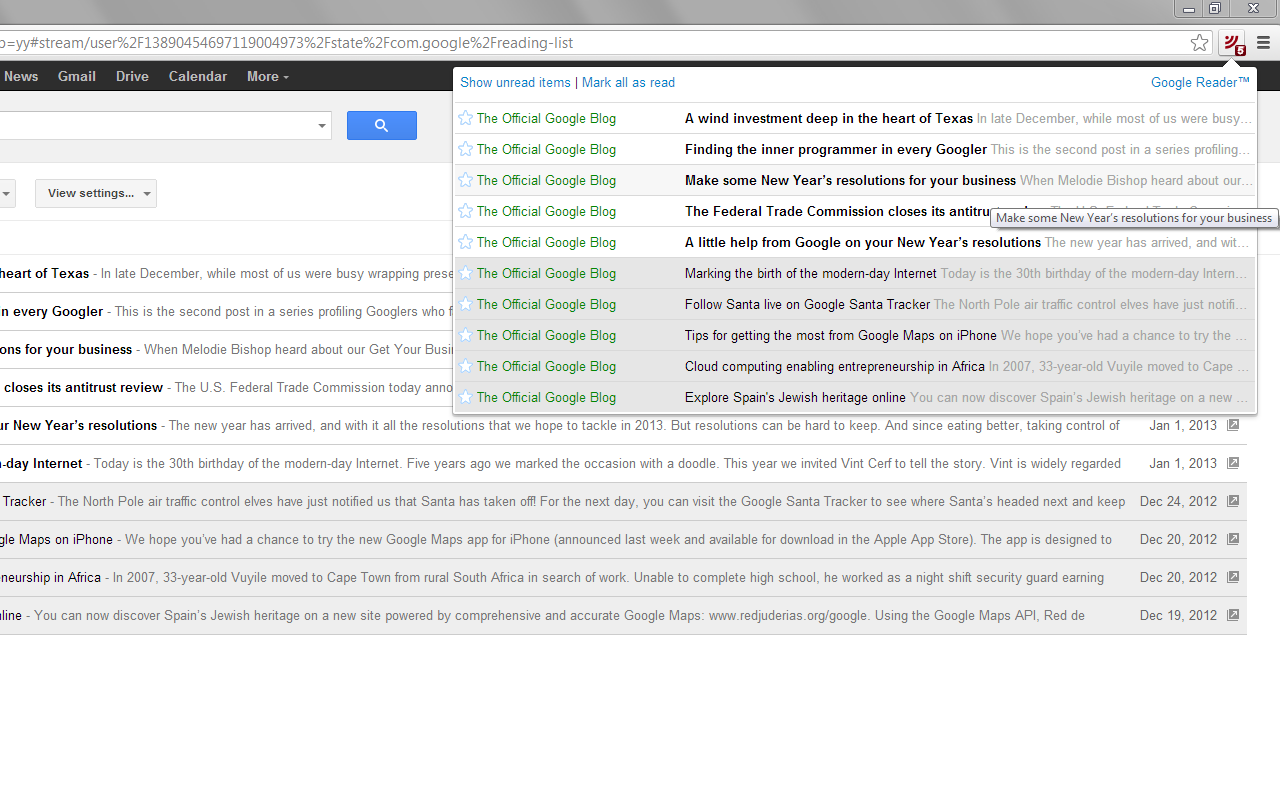
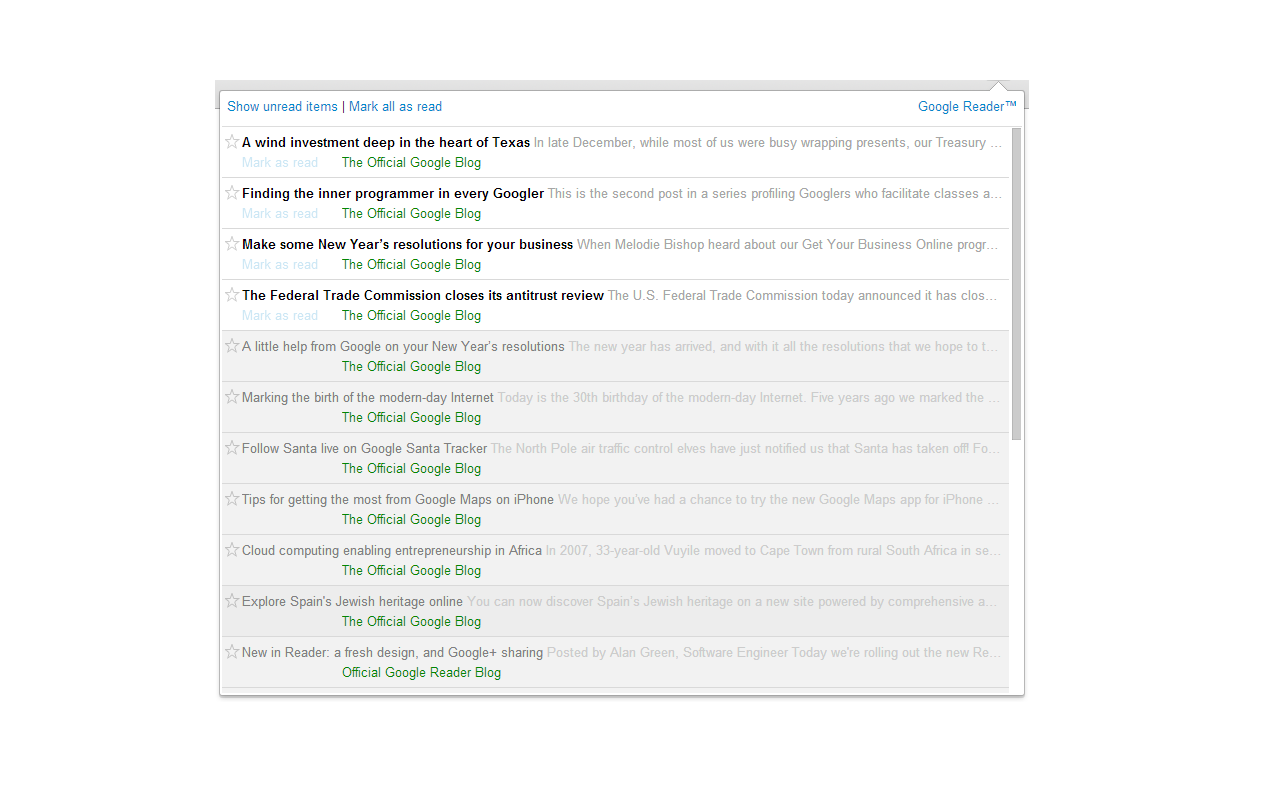
version 2.1.0 with redesigned list

Changed region(s): [[0.0, 0.0, 1.0, 0.875], [0.0312, 0.2188, 0.125, 0.25]]

diff --git a/app/css/popup.css b/app/css/popup.css
@@ -1,2 +1,2 @@
 /* This beautiful CSS-File has been crafted with LESS (lesscss.org) and compiled by bracketLESS (codeblog.co.uk/bracketless) */
-.grn-star { background: url('/img/star-empty.png'); width: 15px; height: 15px; cursor: pointer; overflow: hidden; padding: 0px; display: inline-block; vertical-align: -2px;}.grn-star:hover { background: url('/img/star-hover.png');}.grn-star.grn-starred { background: url('/img/star-full.png');}::-webkit-scrollbar { height: 13px; overflow: visible; width: 13px;}::-webkit-scrollbar-thumb { background-color: rgba(0, 0, 0, 0.2); background-clip: padding-box; border: solid transparent; border-width: 1px 1px 1px 3px; min-height: 28px; padding: 100px 0 0; box-shadow: inset 1px 1px 0 rgba(0, 0, 0, 0.1), inset 0 -1px 0 rgba(0, 0, 0, 0.07);}::-webkit-scrollbar-button { height: 0; width: 0;}::-webkit-scrollbar-track { background-clip: padding-box; border: solid transparent; border-width: 0 0 0 4px; background-color: transparent;}::-webkit-scrollbar-corner { background: transparent;}body { padding: 0px; margin: 0px; font-family: Arial, sans-serif; font-size: 13px;}#list-view { display: -webkit-box; -webkit-box-orient: vertical; width: 800px; max-height: 600px;}#list-view header { border-bottom: 1px solid #DDD; padding: 3px 5px 10px 5px;}#list-view .grn-container { -webkit-box-flex: 1; overflow: auto;}#list-view .grn-container .grn-loading { padding: 15px 0px; text-align: center;}#list-view .grn-container .grn-empty { padding: 25px 0px; text-align: center;}#list-view .grn-container .grn-items-list { margin: 0px;}#list-view .grn-container .grn-items-list .grn-list-item { position: relative; list-style: none; margin: 0px; padding: 0px; height: 30px; line-height: 30px; background-color: #ffffff; border-bottom: 1px solid #d9d9d9; overflow: hidden;}#list-view .grn-container .grn-items-list .grn-list-item:last-child { border-bottom: none;}#list-view .grn-container .grn-items-list .grn-list-item .grn-star { margin: 0px 3px;}#list-view .grn-container .grn-items-list .grn-list-item:hover { background-color: #f7f7f7;}#list-view .grn-container .grn-items-list .grn-list-item .grn-title { font-weight: bold;}#list-view .grn-container .grn-items-list .grn-list-item.read { background-color: #e6e6e6;}#list-view .grn-container .grn-items-list .grn-list-item.read:hover { background-color: #e3e3e3;}#list-view .grn-container .grn-items-list .grn-list-item.read .grn-title { font-weight: normal;}#list-view .grn-container .grn-items-list .grn-list-item .grn-item-description { cursor: pointer;}#list-view .grn-container .grn-items-list .grn-list-item .grn-item-description .grn-column-origin { position: absolute; top: 0px; bottom: 0px; left: 22px; width: 208px; white-space: nowrap; overflow: hidden; text-overflow: ellipsis; color: #008800;}#list-view .grn-container .grn-items-list .grn-list-item .grn-item-description .grn-column-title { position: absolute; top: 0px; bottom: 0px; left: 230px; right: 0px; white-space: nowrap; overflow: hidden; text-overflow: ellipsis; color: #a6a6a6;}#list-view .grn-container .grn-items-list .grn-list-item .grn-item-description .grn-column-title .grn-title { color: #000000;}#item-view { display: -webkit-box; -webkit-box-orient: vertical; width: 800px; max-height: 600px;}#item-view header { display: -webkit-box; -webkit-box-orient: horizontal; border-bottom: 1px solid #DDD; position: relative;}#item-view header .grn-star { margin: 7px 5px 0px 0px;}#item-view header .grn-navigation { background-color: white; float: right; position: fixed; right: 0px; top: 0px; margin: 5px; opacity: 0; -webkit-transition: opacity 100ms; -webkit-transition-delay: 300ms;}#item-view header:hover .grn-navigation { display: block; opacity: 1; -webkit-transition-delay: 0ms;}#item-view header .grn-info { -webkit-box-flex: 1; max-height: 150px; overflow: auto;}#item-view header .grn-info > p { margin: 0px; padding: 0px;}#item-view header .grn-info .grn-title { font-size: 30px; font-weight: bold; line-height: normal; color: #000000;}#item-view header .grn-info .grn-origin { color: #008800;}#item-view .grn-container { -webkit-box-flex: 1; text-align: center; padding: 10px; margin-bottom: 5px; overflow: auto;}#item-view .grn-container .grn-content { display: inline-block; text-align: left;}
+.grn-star { background: url('/img/star-empty.png'); width: 15px; height: 15px; cursor: pointer; overflow: hidden; padding: 0px; display: inline-block; vertical-align: -2px;}.grn-star:hover { background: url('/img/star-hover.png');}.grn-star.grn-starred { background: url('/img/star-full.png');}::-webkit-scrollbar { height: 13px; overflow: visible; width: 13px;}::-webkit-scrollbar-thumb { background-color: rgba(0, 0, 0, 0.2); background-clip: padding-box; border: solid transparent; border-width: 1px 1px 1px 3px; min-height: 28px; padding: 100px 0 0; box-shadow: inset 1px 1px 0 rgba(0, 0, 0, 0.1), inset 0 -1px 0 rgba(0, 0, 0, 0.07);}::-webkit-scrollbar-button { height: 0; width: 0;}::-webkit-scrollbar-track { background-clip: padding-box; border: solid transparent; border-width: 0 0 0 4px; background-color: transparent;}::-webkit-scrollbar-corner { background: transparent;}body { padding: 0px; margin: 0px; font-family: Arial, sans-serif; font-size: 13px;}#list-view { display: -webkit-box; -webkit-box-orient: vertical; width: 800px; max-height: 600px;}#list-view header { border-bottom: 1px solid #DDD; padding: 3px 5px 10px 5px;}#list-view .grn-container { -webkit-box-flex: 1; overflow: auto;}#list-view .grn-container .grn-loading { padding: 15px 0px; text-align: center;}#list-view .grn-container .grn-empty { padding: 25px 0px; text-align: center;}#list-view .grn-container .grn-items-list { margin: 0px;}#list-view .grn-container .grn-items-list .grn-list-item { position: relative; list-style: none; margin: 0px; padding: 0px; height: 50px; overflow: hidden; background-color: #ffffff; border-bottom: 1px solid #d9d9d9; }#list-view .grn-container .grn-items-list .grn-list-item:last-child { border-bottom: none;}#list-view .grn-container .grn-items-list .grn-list-item .grn-star { position: relative; top: 5px; left: 3px;}#list-view .grn-container .grn-items-list .grn-list-item .grn-click-target { position: absolute; top: 0px; bottom: 0px; left: 20px; right: 0px; cursor: pointer; padding-top: 5px;}#list-view .grn-container .grn-items-list .grn-list-item .grn-click-target .grn-item-content { white-space: nowrap; overflow: hidden; text-overflow: ellipsis; display: block; margin: 0px 5px 0px 0px; color: #a6a6a6;}#list-view .grn-container .grn-items-list .grn-list-item .grn-click-target .grn-item-content .grn-item-title { color: #000000;}#list-view .grn-container .grn-items-list .grn-list-item .grn-click-target .grn-item-origin { white-space: nowrap; overflow: hidden; text-overflow: ellipsis; margin: 0px 5px 0px 0px; position: absolute; left: 100px; display: block; max-width: 400px;}#list-view .grn-container .grn-items-list .grn-list-item .grn-click-target .grn-item-origin a { color: #008800;}#list-view .grn-container .grn-items-list .grn-list-item .grn-click-target .grn-item-commands { list-style: none; margin: 0px; max-width: 300px; opacity: 0.2; -webkit-transition: opacity 150ms ease-in;}#list-view .grn-container .grn-items-list .grn-list-item .grn-click-target .grn-item-commands li { display: inline; margin-right: 5px;}#list-view .grn-container .grn-items-list .grn-list-item .grn-click-target:hover .grn-item-commands { opacity: 1;}#list-view .grn-container .grn-items-list .grn-list-item:not(.read) .grn-item-content .grn-item-title { font-weight: bold;}#list-view .grn-container .grn-items-list .grn-list-item:not(.read):hover { background-color: #fafafa;}#list-view .grn-container .grn-items-list .grn-list-item.read { background-color: #f2f2f2; }#list-view .grn-container .grn-items-list .grn-list-item.read .grn-item-content { color: #cccccc;}#list-view .grn-container .grn-items-list .grn-list-item.read .grn-item-content .grn-item-title { font-weight: normal; color: #808080;}#list-view .grn-container .grn-items-list .grn-list-item.read:hover { background-color: #ededed;}#list-view .grn-container .grn-items-list .grn-list-item.read .grn-item-commands { display: none;}#item-view { display: -webkit-box; -webkit-box-orient: vertical; width: 800px; max-height: 600px;}#item-view header { display: -webkit-box; -webkit-box-orient: horizontal; border-bottom: 1px solid #DDD; position: relative;}#item-view header .grn-star { margin: 7px 5px 0px 0px;}#item-view header .grn-navigation { background-color: white; float: right; position: fixed; right: 0px; top: 0px; margin: 5px; opacity: 0; -webkit-transition: opacity 100ms; -webkit-transition-delay: 300ms;}#item-view header:hover .grn-navigation { display: block; opacity: 1; -webkit-transition-delay: 0ms;}#item-view header .grn-info { -webkit-box-flex: 1; max-height: 150px; overflow: auto;}#item-view header .grn-info > p { margin: 0px; padding: 0px;}#item-view header .grn-info .grn-title { font-size: 30px; font-weight: bold; line-height: normal; color: #000000;}#item-view header .grn-info .grn-origin { color: #008800;}#item-view .grn-container { -webkit-box-flex: 1; text-align: center; padding: 10px; margin-bottom: 5px; overflow: auto;}#item-view .grn-container .grn-content { display: inline-block; text-align: left;}

diff --git a/app/css/popup.less b/app/css/popup.less
@@ -135,15 +135,110 @@ body {
       margin: 0px;
       
       .grn-list-item {
-        @item-height: 30px;
         position: relative;
         list-style: none;
         margin: 0px;
         padding: 0px;
-        height: @item-height;
-        line-height: @item-height;
+        height: 50px;
+        overflow: hidden;
         
         background-color: @item-bg-color;
+        @divider-color: darken(@item-bg-color, 15%);
+        .lines-between(1px solid @divider-color);
+        
+        .grn-star {
+          position: relative;
+          top: 5px; left: 3px;
+        }
+        
+        .grn-click-target {
+          position: absolute;
+          top: 0px; bottom: 0px;
+          left: 20px; right: 0px;
+          
+          cursor: pointer;
+          padding-top: 5px;
+          
+          .grn-item-content {
+            .no-wrap();
+            display: block;
+            margin: 0px 5px 0px 0px;
+            color: @item-snippet-color;
+            .grn-item-title {
+              color: @item-title-color;
+            }
+          }
+          
+          @commands-width: 300px;
+          
+          .grn-item-origin {
+            .no-wrap();
+            margin: 0px 5px 0px 0px;
+            position: absolute;
+            left: 100px;
+            display: block;
+            max-width: 400px;
+            a {
+              color: @item-origin-color;
+            }
+          }
+          
+          .grn-item-commands {
+            list-style: none;
+            margin: 0px;
+            max-width: 300px;
+            opacity: 0.2;
+            -webkit-transition: opacity 150ms ease-in;
+            li {
+              display: inline;
+              margin-right: 5px;
+            }
+          }
+          
+          &:hover .grn-item-commands {
+            opacity: 1;
+          }
+        }        
+        
+        &:not(.read) {
+          .grn-item-content {
+            .grn-item-title {
+              font-weight: bold;
+            }
+          }
+          
+          &:hover {
+            background-color: darken(@item-bg-color, 2%);
+          }
+        }
+        
+        &.read {
+          @item-bg-color-read: darken(@item-bg-color, 5%);
+          background-color: @item-bg-color-read;
+          
+          .grn-item-content {
+            color: lighten(@item-snippet-color, 15%);
+            .grn-item-title {
+              font-weight: normal;
+              color: lighten(@item-title-color, 50%);
+            }
+          }
+          
+          /*.grn-item-origin {
+            left: 0px;
+          }*/
+          
+          &:hover {
+            background-color: darken(@item-bg-color-read, 2%);
+          }
+          
+          .grn-item-commands {
+            display: none;
+          }
+        }
+        
+        
+        /*background-color: @item-bg-color;
         @divider-color: darken(@item-bg-color, 15%);
         .lines-between(1px solid @divider-color);        
         overflow: hidden;
@@ -192,11 +287,12 @@ body {
             color: @item-snippet-color;
             
             .grn-title {
-              /*font-weight: bold;*/
+              font-weight: bold;
               color: @item-title-color;
             }            
           }
-        }        
+        }*/
+          
       }
     }
   }

diff --git a/app/popup.html b/app/popup.html
@@ -26,22 +26,20 @@
       <div class="grn-container" when-scrolled="loadMoreItems()">
         <ul class="grn-items-list">
           
-          <li class="grn-list-item" 
-              ng-class="{read: item.read}" 
-              ng-repeat="item in list.items">
+          <li class="grn-list-item" ng-class="{read: item.read}" ng-repeat="item in list.items">
             <span class="grn-star" ng-class="{'grn-starred': item.starred}" ng-click="rate(item)"></span>
-            <a ng-click="showItemView($index, $event)">
-              <!--This is wrapped in an a element to disable smooth scrolling on middle click-->
-              <div class="grn-item-description">
-                <div class="grn-column-origin" title="{{item.origin.title}}">
-                  {{item.origin.title}}
-                </div>
-                <div class="grn-column-title" title="{{item.title}}">
-                  <span class="grn-title">{{item.title}}</span>
-                  <span class="grn-snippet">{{item.snippet}}</span>
-                </div>
-              </div>
-            </a>
+            <div class="grn-click-target" ng-click="showItemView($index)">
+              <span class="grn-item-content" title="{{item.title}}">
+                <a class="grn-item-title" middle-click="openInChrome(item);$event.stopPropagation();">{{item.title}}</a>
+                {{item.snippet}}
+              </span>
+              <span class="grn-item-origin" middle-click="openUrl(item.origin.url, true);$event.stopPropagation();">
+                <a title="{{item.origin.title}}">{{item.origin.title}}</a>
+              </span>
+              <ul class="grn-item-commands">
+                <li><a ng-click="item.markAsRead();$event.stopPropagation();">Mark as read</a></li>
+              </ul>
+            </div>
           </li>
           
         </ul>

diff --git a/app/js/popup.js b/app/js/popup.js
@@ -4,7 +4,7 @@ angular.module('Reader.popup', ['Reader.services', 'Reader.directives', 'ngSanit
   
 function PopupCtrl($scope, reader, options) {
   
-  var openUrl = function (url, background) {
+  $scope.openUrl = function (url, background) {
     var tab = {url: url};
 
     if(background) {
@@ -31,16 +31,15 @@ function PopupCtrl($scope, reader, options) {
   $scope.iterator = {};
   $scope.currentList = $scope.lists.all;
   
-  $scope.showItemView = function (index, $event) {
+  $scope.showItemView = function (index) {
     $scope.iterator = $scope.list.getIterator(index);
     $scope.iterator.current.markAsRead();
-    if ($event.button === 1) {
-      console.log('middle click');
-      openUrl($scope.iterator.current.url, true);
-      $event.preventDefault();
-    } else {
-      $scope.view = $scope.views.item;
-    }
+    $scope.view = $scope.views.item;
+  };
+  
+  $scope.openInChrome = function (item) {
+    item.markAsRead();
+    $scope.openUrl(item.url, true);
   };
   
   $scope.showListView = function () {

diff --git a/app/js/directives.js b/app/js/directives.js
@@ -55,3 +55,20 @@ angular.module('Reader.directives', [])
     };
   })
   
+  .directive('middleClick', function($parse) {
+    return {
+      restrict: 'A',
+      link: function(scope, element, attr) {
+        var fn = $parse(attr.middleClick);
+        element.bind('click', function(event) {
+          var clickedMiddle = (event.button === 1) || (event.button === 0 && event.ctrlKey);
+          if (clickedMiddle) {
+            scope.$apply(function() {
+              fn(scope, {$event: event});
+            }); 
+          }
+        });
+      }
+    };
+  })
+  

diff --git a/README.md b/README.md
@@ -28,9 +28,13 @@ The above copyright notice and this permission notice shall be included in all c
 THE SOFTWARE IS PROVIDED "AS IS", WITHOUT WARRANTY OF ANY KIND, EXPRESS OR IMPLIED, INCLUDING BUT NOT LIMITED TO THE WARRANTIES OF MERCHANTABILITY, FITNESS FOR A PARTICULAR PURPOSE AND NONINFRINGEMENT. IN NO EVENT SHALL THE AUTHORS OR COPYRIGHT HOLDERS BE LIABLE FOR ANY CLAIM, DAMAGES OR OTHER LIABILITY, WHETHER IN AN ACTION OF CONTRACT, TORT OR OTHERWISE, ARISING FROM, OUT OF OR IN CONNECTION WITH THE SOFTWARE OR THE USE OR OTHER DEALINGS IN THE SOFTWARE.
   
 ##version history
-###2.0.7:
-  * new star icon
-  * fix special characters in tooltips
+
+###2.1.0: Cut me some slack
+  * redesign items list to be able to mark as read without previewing.
+
+###2.0.7: Eye candy
+  * new star icon.
+  * fix special characters in tooltips.
   
 ###2.0.5 - 2.0.6: Can't do good for everyone
   * Bring back middle click support in the items list.
